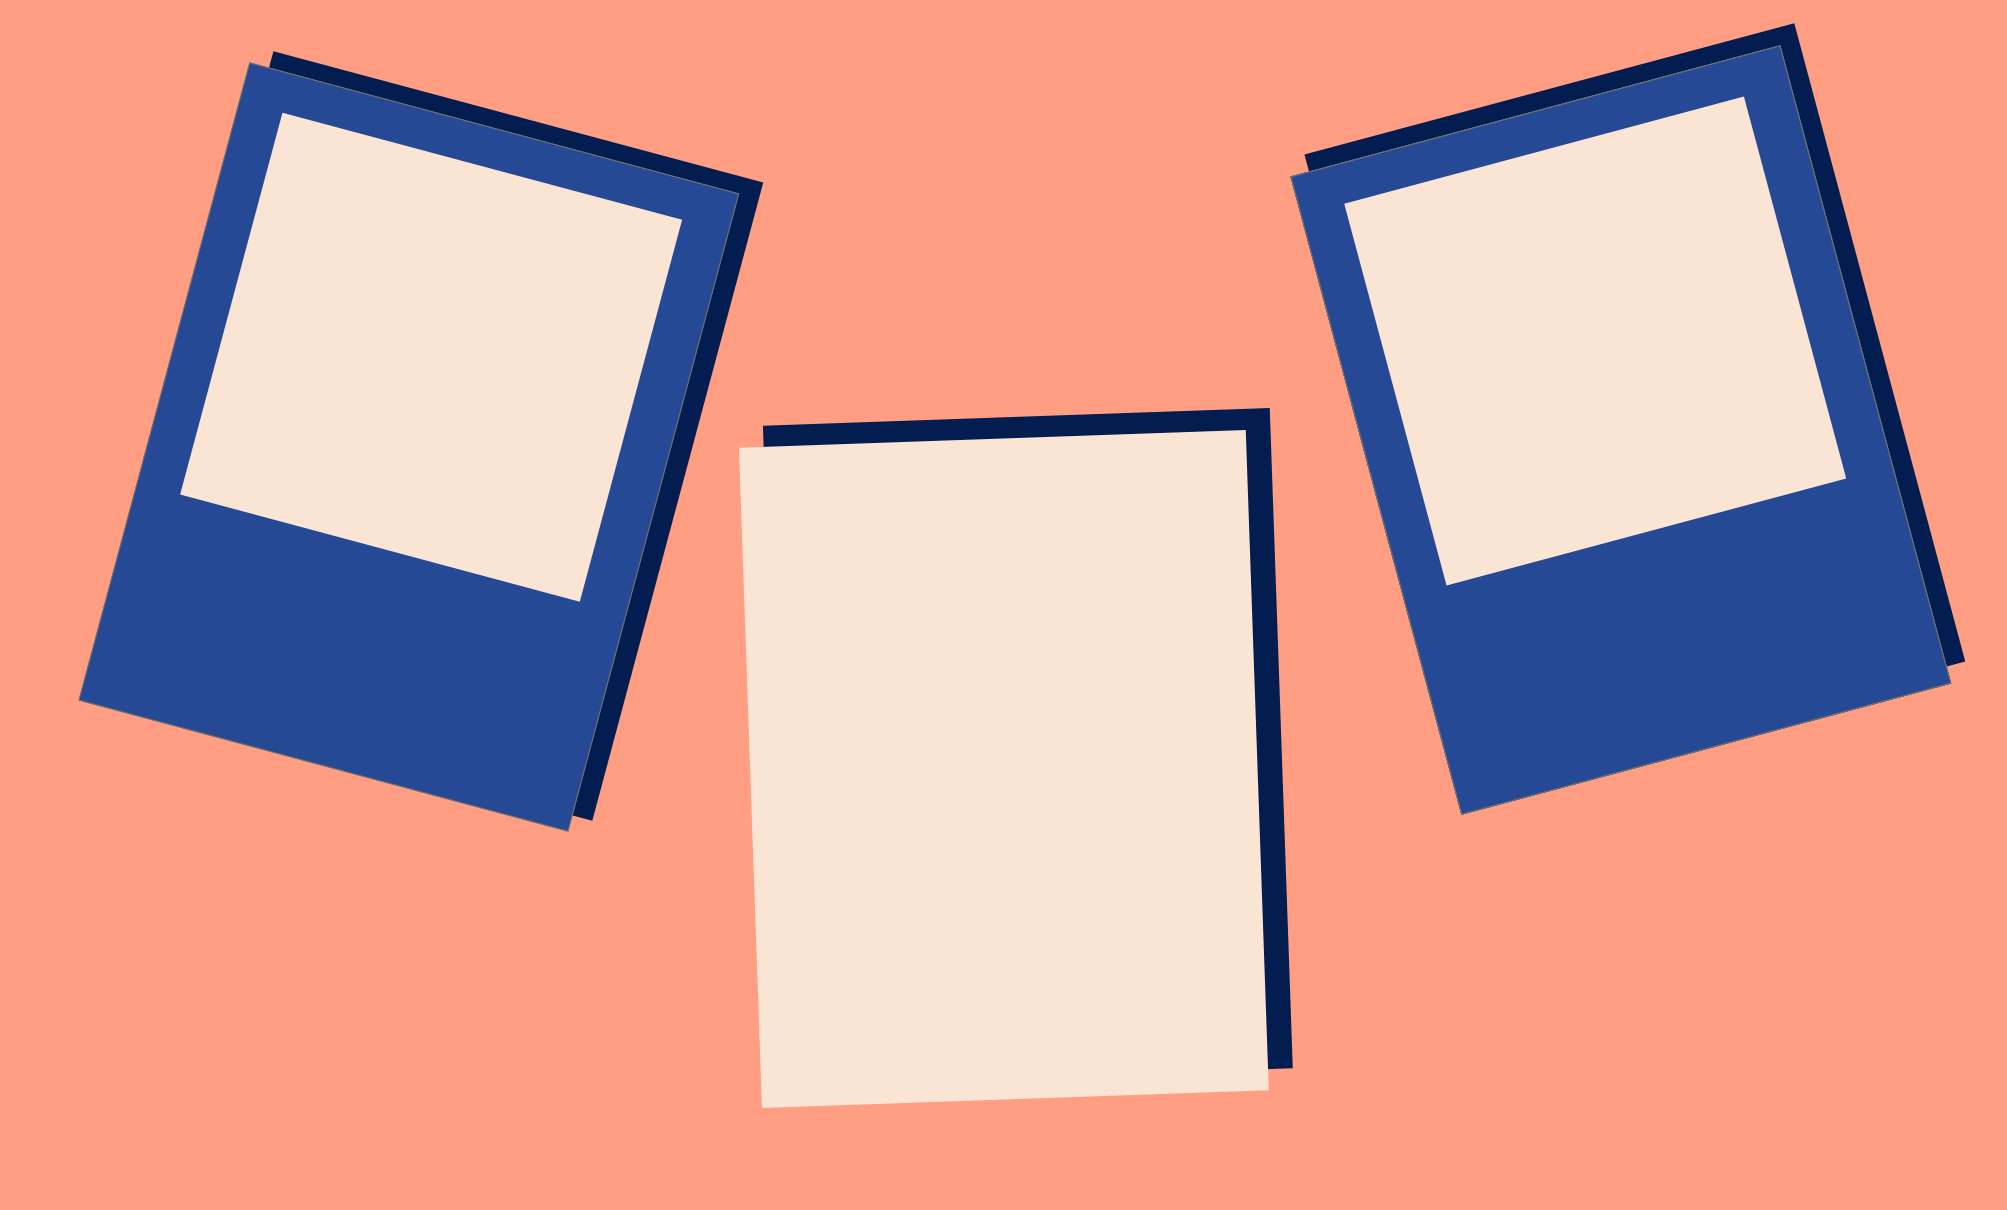
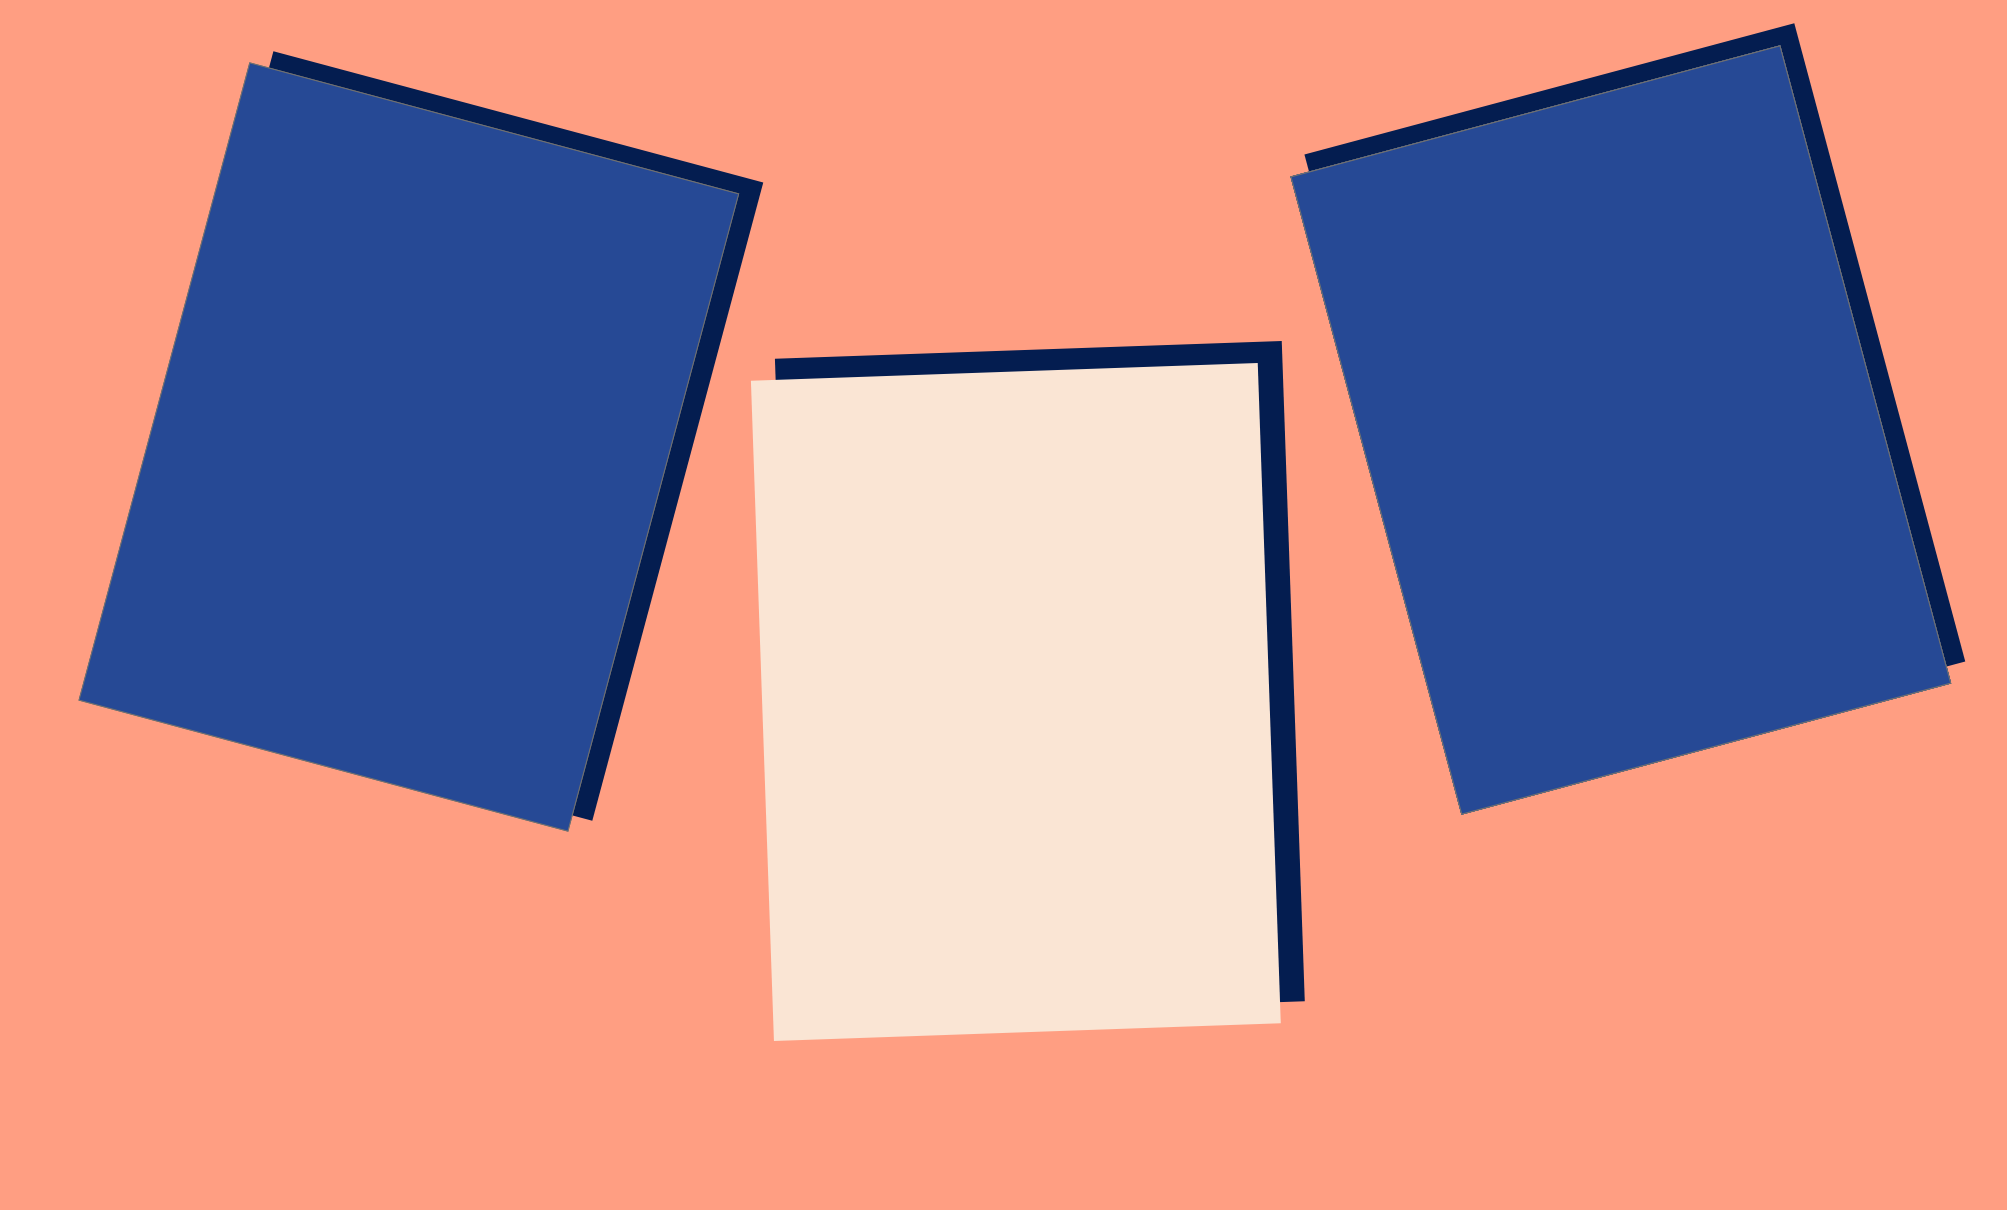
5

Changed region(s): [[0.6487, 0.0612, 0.9268, 0.4893], [0.0927, 0.0917, 0.3398, 0.4893], [0.3707, 0.2752, 0.6487, 0.9174]]

diff --git a/Projects/Photography/Photography.html b/Projects/Photography/Photography.html
@@ -13,9 +13,15 @@
       
       <header>
          <div class="backgroundphoto">
+          <div class="text">I love to take pictures,<br> especially when I am travelling. <br>Here are some of my recent ones</div>
         
-
-          <div class="picture1">
-            <img src ="/Users/rachelprasetya/Documents/GitHub/portfolio-Rach091/Projects/Photography/css/picture1.jpeg">
+          <div class="square"> </div>
+          <div class="picture">
+          <img src="picture1.png" class="w3-round-small" alt="netherlands" style="width:23%">
           </div>
+          
+          <div class="picture2">
+          <img src="picture.png" class="w3-round-small" alt="netherlands" style="width:37%">
+          </div>
+
         </div>

diff --git a/Projects/Photography/css/styles.css b/Projects/Photography/css/styles.css
@@ -17,10 +17,34 @@ background-image: url("Photography.png");
   height:100vh;
 }
 
-.picture1{
-	top:335px;
-left:400px;
+.picture{	
 position:absolute;
-width:354px;
-height:265.5px;
+transform: rotate(15deg);
+left:160px;
+top:250px;
+}
+
+.square {
+  height: 245px;
+  width: 325px;
+  background-color: #F3dfcb;
+transform: rotate(15deg);
+top:110px;
+left:165px;
+position:absolute;
+  }
+
+ .text{
+ 	font-size: 25px;
+ 	color:112046;
+ 	top:630px;
+left:60px;
+position:absolute;
+ }
+
+ .picture2{	
+position:absolute;
+transform: rotate(358deg);
+left:580px;
+top:285px;
 }

diff --git a/Projects/Projects.html b/Projects/Projects.html
@@ -20,7 +20,7 @@
        
          <a class="square2link" href ="/Users/rachelprasetya/Documents/GitHub/portfolio-Rach091/Projects/UX design/UX Design.html">
            <div class="square2">
-            <div class="UXDesign"><strong>UX Design</strong></div>>
+            <div class="UXDesign"><strong>UX Design</strong></div>
            </div>
          </a>
 
